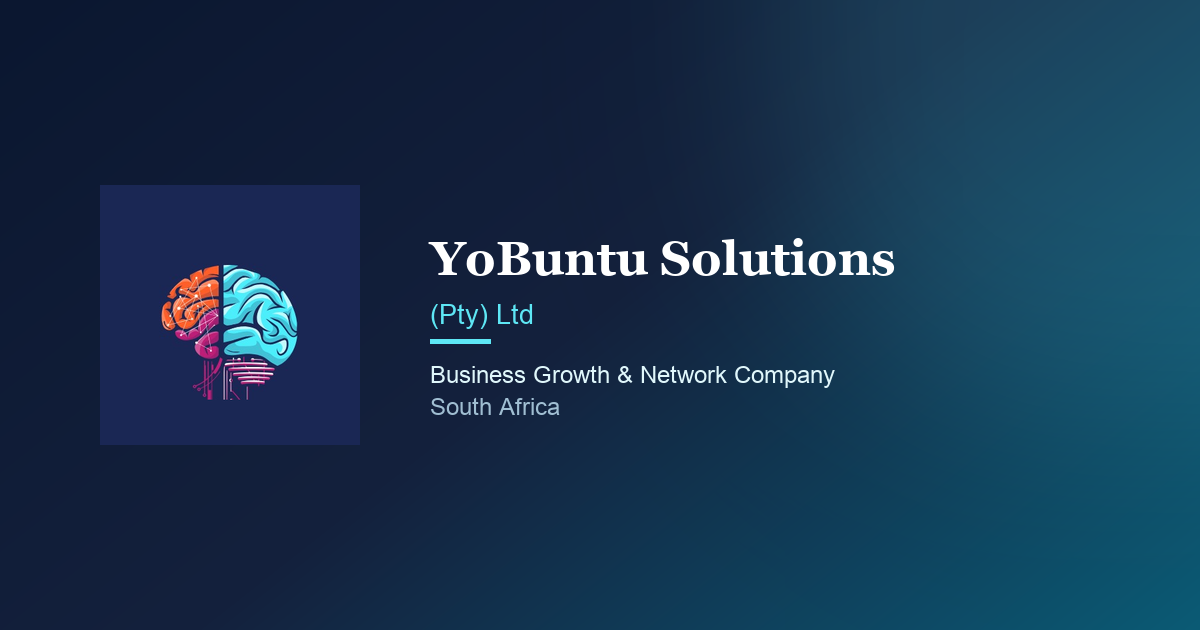
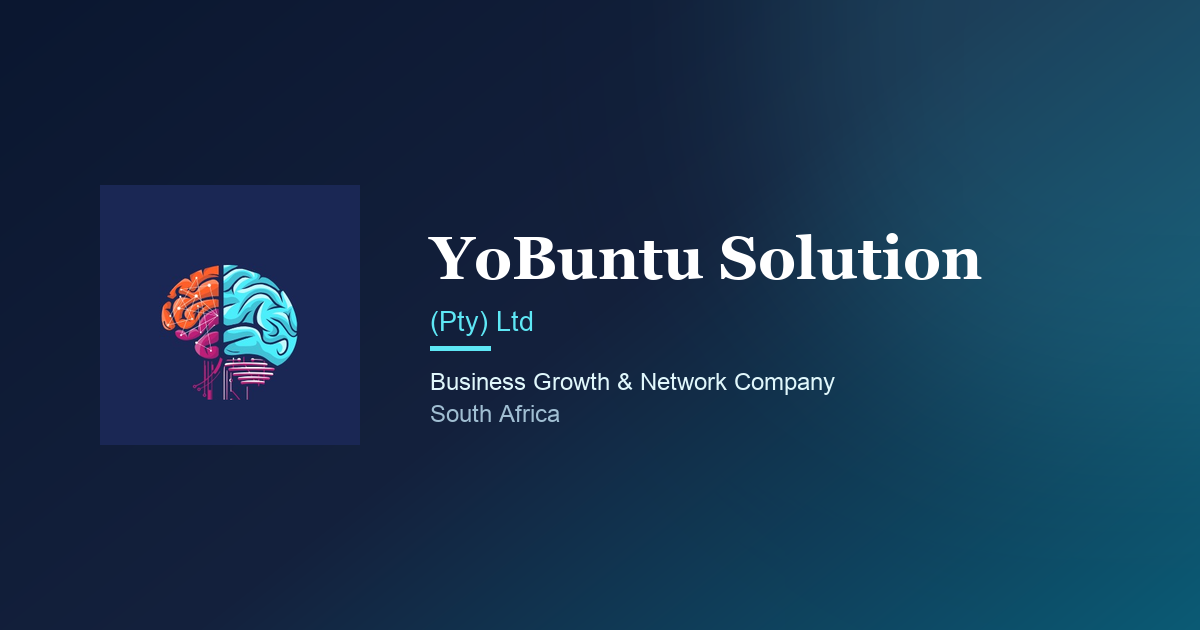
Correct brand name to singular "YoBuntu Solution" throughout
The company's actual name is "YoBuntu Solution (Pty) Ltd" (singular),
matching the wordmark on the real logo. Update every occurrence across
the navbar, footer, page copy, meta tags, manifest.json, structured
data, and regenerate the OG share image to match.

Changed region(s): [[0.3392, 0.3619, 0.8325, 0.4524], [0.3392, 0.4825, 0.7092, 0.6937]]

diff --git a/public/index.html b/public/index.html
@@ -6,10 +6,10 @@
     <meta name="theme-color" content="#1A2754" />
 
     <!-- Primary meta (overridden per page by react-helmet-async) -->
-    <title>YoBuntu Solutions | Business Growth & Network Company | South Africa</title>
-    <meta name="description" content="YoBuntu Solutions is a South African business growth and network company. We help businesses grow by connecting them to the customers, partners, investors, technology, and opportunities they need to succeed. AI is one of the tools we use." />
-    <meta name="keywords" content="business network South Africa, business growth partner, business connections, strategic partnerships, investor connections, government opportunities, AI for business South Africa, YoBuntu Solutions" />
-    <meta name="author" content="YoBuntu Solutions (Pty) Ltd" />
+    <title>YoBuntu Solution | Business Growth & Network Company | South Africa</title>
+    <meta name="description" content="YoBuntu Solution is a South African business growth and network company. We help businesses grow by connecting them to the customers, partners, investors, technology, and opportunities they need to succeed. AI is one of the tools we use." />
+    <meta name="keywords" content="business network South Africa, business growth partner, business connections, strategic partnerships, investor connections, government opportunities, AI for business South Africa, YoBuntu Solution" />
+    <meta name="author" content="YoBuntu Solution (Pty) Ltd" />
     <meta name="robots" content="index, follow" />
     <meta name="google-site-verification" content="bCTEjn-3VqtgzPcwOml5I1QKUF3a_S5RUv8E-y2NGUo" />
 
@@ -19,15 +19,15 @@
     <!-- Open Graph -->
     <meta property="og:type" content="website" />
     <meta property="og:url" content="https://yobuntusolutions.com/" />
-    <meta property="og:title" content="YoBuntu Solutions | Business Growth & Network Company | South Africa" />
+    <meta property="og:title" content="YoBuntu Solution | Business Growth & Network Company | South Africa" />
     <meta property="og:description" content="A business growth and network company. We help businesses grow by connecting them to customers, partners, investors, and opportunities — with AI as one of the tools." />
     <meta property="og:image" content="https://yobuntusolutions.com/og-image.png" />
-    <meta property="og:site_name" content="YoBuntu Solutions" />
+    <meta property="og:site_name" content="YoBuntu Solution" />
     <meta property="og:locale" content="en_ZA" />
 
     <!-- Twitter / X Card -->
     <meta name="twitter:card" content="summary_large_image" />
-    <meta name="twitter:title" content="YoBuntu Solutions | Business Growth & Network Company" />
+    <meta name="twitter:title" content="YoBuntu Solution | Business Growth & Network Company" />
     <meta name="twitter:description" content="A business growth and network company based in Nkomazi, Mpumalanga, South Africa." />
     <meta name="twitter:image" content="https://yobuntusolutions.com/og-image.png" />
 
@@ -40,7 +40,7 @@
     <link href="https://fonts.googleapis.com/css2?family=Playfair+Display:ital,wght@0,400;0,700;1,400;1,700&family=DM+Sans:wght@300;400;500&display=swap" rel="stylesheet">
   </head>
   <body>
-    <noscript>YoBuntu Solutions — A business growth and network company. We help businesses grow by connecting them to the customers, partners, investors, technology, and opportunities they need to succeed. Based in Nkomazi, Mpumalanga, South Africa.</noscript>
+    <noscript>YoBuntu Solution — A business growth and network company. We help businesses grow by connecting them to the customers, partners, investors, technology, and opportunities they need to succeed. Based in Nkomazi, Mpumalanga, South Africa.</noscript>
     <div id="root"></div>
   </body>
 </html>

diff --git a/src/pages/About.jsx b/src/pages/About.jsx
@@ -50,7 +50,7 @@ export default function About() {
     <div>
       <SEO
         title="About Us — A Business Growth & Network Company"
-        description="YoBuntu Solutions is a South African business growth and network company. We believe most businesses fail from a lack of connections, not bad products — so we become a long-term growth partner and build a network around every business."
+        description="YoBuntu Solution is a South African business growth and network company. We believe most businesses fail from a lack of connections, not bad products — so we become a long-term growth partner and build a network around every business."
         path="/about"
       />
 
@@ -64,7 +64,7 @@ export default function About() {
                 A business growth &amp; network company
               </h1>
               <p style={{ color: 'var(--text-muted)', fontWeight: 300, maxWidth: 600, lineHeight: 1.8 }}>
-                YoBuntu Solutions helps businesses grow by connecting them to the people, technology, and opportunities they need to succeed. AI is one of the tools we use — but the real business is the network, and the long-term partnership behind it.
+                YoBuntu Solution helps businesses grow by connecting them to the people, technology, and opportunities they need to succeed. AI is one of the tools we use — but the real business is the network, and the long-term partnership behind it.
               </p>
             </div>
             <div className="split-media">
@@ -190,7 +190,7 @@ export default function About() {
           <div className="card" style={{ background: 'var(--bg)', padding: '2rem', display: 'flex', gap: '1.25rem', alignItems: 'flex-start' }}>
             <Quote size={32} color="var(--primary)" style={{ flexShrink: 0 }} aria-hidden="true" />
             <p style={{ fontFamily: "'Playfair Display', serif", fontSize: '1.2rem', lineHeight: 1.6, fontStyle: 'italic' }}>
-              &ldquo;YoBuntu Solutions is building the infrastructure that helps businesses grow by connecting them to the people, technology, and opportunities they need to succeed. Every business we add strengthens the network for every other business, creating long-term value that scales across industries and countries.&rdquo;
+              &ldquo;YoBuntu Solution is building the infrastructure that helps businesses grow by connecting them to the people, technology, and opportunities they need to succeed. Every business we add strengthens the network for every other business, creating long-term value that scales across industries and countries.&rdquo;
             </p>
           </div>
           <p style={{ color: 'var(--text-muted)', lineHeight: 1.8, marginTop: '1.5rem' }}>

diff --git a/src/pages/Home.jsx b/src/pages/Home.jsx
@@ -107,7 +107,7 @@ export default function Home() {
     <div>
       <SEO
         path="/"
-        description="YoBuntu Solutions is a South African business growth and network company. We help businesses grow by connecting them to the customers, partners, investors, technology, and opportunities they need to succeed."
+        description="YoBuntu Solution is a South African business growth and network company. We help businesses grow by connecting them to the customers, partners, investors, technology, and opportunities they need to succeed."
       />
 
       {/* Hero */}
@@ -142,7 +142,7 @@ export default function Home() {
             <em style={{ color: '#5EE7F5', fontStyle: 'italic' }}>connections</em>, resources, and support
           </h1>
           <p style={{ color: 'rgba(255,255,255,0.9)', fontWeight: 300, fontSize: '1.1rem', maxWidth: 620, marginBottom: '2.25rem', lineHeight: 1.7 }}>
-            Most businesses don't fail because they have bad products — they fail because they lack the right connections, resources, and support system. YoBuntu Solutions exists to solve that. We become your long-term growth partner and build a network around your business.
+            Most businesses don't fail because they have bad products — they fail because they lack the right connections, resources, and support system. YoBuntu Solution exists to solve that. We become your long-term growth partner and build a network around your business.
           </p>
           <div style={{ display: 'flex', gap: '1rem', flexWrap: 'wrap' }}>
             <Link to="/contact" className="btn-primary" style={{ background: '#fff', color: 'var(--deep)', borderColor: '#fff' }}>
@@ -212,7 +212,7 @@ export default function Home() {
                 Traditional consultants give recommendations and leave. Directories just list businesses. Networking events happen once and end. None of them stay to make sure a business actually grows.
               </p>
               <p style={{ color: 'var(--text-muted)', lineHeight: 1.8 }}>
-                YoBuntu Solutions is different. We partner with each business and become a long-term growth partner — actively building a network of customers, suppliers, partners, and opportunities around it, then using AI to make it more efficient along the way.
+                YoBuntu Solution is different. We partner with each business and become a long-term growth partner — actively building a network of customers, suppliers, partners, and opportunities around it, then using AI to make it more efficient along the way.
               </p>
             </div>
             <div className="split-media">

diff --git a/src/pages/Pilot.jsx b/src/pages/Pilot.jsx
@@ -49,7 +49,7 @@ export default function Pilot() {
     <div>
       <SEO
         title="Pilot — Divine Projects | Proving the Growth Model"
-        description="Divine Projects is YoBuntu Solutions' first pilot: a catering, events, and rides business based in Sidlamafa, Mpumalanga. We are building a full support ecosystem around it and documenting every result to prove the model works."
+        description="Divine Projects is YoBuntu Solution's first pilot: a catering, events, and rides business based in Sidlamafa, Mpumalanga. We are building a full support ecosystem around it and documenting every result to prove the model works."
         path="/pilot"
       />
 
@@ -122,7 +122,7 @@ export default function Pilot() {
                 <MapPin size={20} color="var(--coral)" aria-hidden="true" />
               </div>
               <h3 style={{ fontSize: '1.02rem' }}>Based in Mpumalanga</h3>
-              <p style={{ color: 'var(--text-muted)', fontSize: '0.9rem', lineHeight: 1.6 }}>Sidlamafa, Nkomazi — the same region YoBuntu Solutions calls home.</p>
+              <p style={{ color: 'var(--text-muted)', fontSize: '0.9rem', lineHeight: 1.6 }}>Sidlamafa, Nkomazi — the same region YoBuntu Solution calls home.</p>
             </div>
           </div>
         </div>

diff --git a/src/components/Footer.jsx b/src/components/Footer.jsx
@@ -16,7 +16,7 @@ export default function Footer() {
               <img src={logoMark} alt="" aria-hidden="true" />
             </div>
           </div>
-          <p className="seal-plate">YoBuntu Solutions (Pty) Ltd</p>
+          <p className="seal-plate">YoBuntu Solution (Pty) Ltd</p>
           <p className="seal-sub">Registered in South Africa · Nkomazi, Mpumalanga</p>
         </div>
       </div>
@@ -59,7 +59,7 @@ export default function Footer() {
       </div>
 
       <div style={{ maxWidth: 1100, margin: '0 auto', padding: '1rem 1.5rem', borderTop: '1px solid var(--border)', color: 'var(--text-muted)', fontSize: '0.83rem' }}>
-        © 2025 YoBuntu Solutions (Pty) Ltd · Nkomazi, Mpumalanga · A business growth &amp; network company
+        © 2025 YoBuntu Solution (Pty) Ltd · Nkomazi, Mpumalanga · A business growth &amp; network company
       </div>
 
       <style>{`

diff --git a/src/pages/Network.jsx b/src/pages/Network.jsx
@@ -56,7 +56,7 @@ export default function Network() {
     <div>
       <SEO
         title="The Network — Connections, Partnerships & the Network Effect"
-        description="YoBuntu Solutions is building the largest trusted business network. We connect businesses to customers, suppliers, partners, investors, NGOs, and government opportunities — and every business we add strengthens the network for everyone else."
+        description="YoBuntu Solution is building the largest trusted business network. We connect businesses to customers, suppliers, partners, investors, NGOs, and government opportunities — and every business we add strengthens the network for everyone else."
         path="/network"
       />
 

diff --git a/src/pages/Contact.jsx b/src/pages/Contact.jsx
@@ -33,7 +33,7 @@ export default function Contact() {
     <div>
       <SEO
         title="Contact Us — Book a Free Consultation"
-        description="Book a free 30-minute consultation with YoBuntu Solutions. We work with organisations across South Africa on AI consulting, business process optimization, digital transformation, and growth strategy."
+        description="Book a free 30-minute consultation with YoBuntu Solution. We work with organisations across South Africa on AI consulting, business process optimization, digital transformation, and growth strategy."
         path="/contact"
       />
       <section style={{ background: 'var(--bg-secondary)', borderBottom: '1px solid var(--border)' }}>

diff --git a/src/pages/Services.jsx b/src/pages/Services.jsx
@@ -32,7 +32,7 @@ export default function Services() {
     <div>
       <SEO
         title="What We Do — Connections, Growth Partnership & AI Efficiency"
-        description="YoBuntu Solutions helps businesses grow: long-term growth partnership, business introductions, access to investors and government opportunities, strategic partnerships, AI-powered efficiency, and measured results."
+        description="YoBuntu Solution helps businesses grow: long-term growth partnership, business introductions, access to investors and government opportunities, strategic partnerships, AI-powered efficiency, and measured results."
         path="/services"
       />
 

diff --git a/src/pages/Pricing.jsx b/src/pages/Pricing.jsx
@@ -82,7 +82,7 @@ export default function Pricing() {
     <div>
       <SEO
         title="Pricing — Free Consultation to Enterprise Engagements"
-        description="Transparent pricing from YoBuntu Solutions. Start with a free 30-minute strategy consultation and scale to project engagements, monthly retainers, or large-scale enterprise transformation."
+        description="Transparent pricing from YoBuntu Solution. Start with a free 30-minute strategy consultation and scale to project engagements, monthly retainers, or large-scale enterprise transformation."
         path="/pricing"
       />
       {/* Hero */}

diff --git a/src/components/Navbar.jsx b/src/components/Navbar.jsx
@@ -109,8 +109,8 @@ export default function Navbar() {
     <nav style={navStyle}>
       <div style={innerStyle}>
         <Link to="/" style={logoStyle}>
-          <img src={logoMark} alt="YoBuntu Solutions (Pty) Ltd" style={logoMarkStyle} />
-          <span style={logoTextStyle}>YoBuntu Solutions (Pty) Ltd</span>
+          <img src={logoMark} alt="YoBuntu Solution (Pty) Ltd" style={logoMarkStyle} />
+          <span style={logoTextStyle}>YoBuntu Solution (Pty) Ltd</span>
         </Link>
 
         <div style={desktopLinksStyle} className="desktop-nav">

diff --git a/src/App.js b/src/App.js
@@ -14,7 +14,7 @@ import Contact from './pages/Contact';
 const STRUCTURED_DATA = {
   '@context': 'https://schema.org',
   '@type': 'ProfessionalService',
-  name: 'YoBuntu Solutions (Pty) Ltd',
+  name: 'YoBuntu Solution (Pty) Ltd',
   description: 'A business growth and network company helping businesses grow by connecting them to the customers, partners, investors, technology, and opportunities they need to succeed.',
   url: 'https://yobuntusolutions.com',
   logo: 'https://yobuntusolutions.com/logo192.png',

diff --git a/src/components/SEO.jsx b/src/components/SEO.jsx
@@ -1,6 +1,6 @@
 import { Helmet } from 'react-helmet-async';
 
-const SITE_NAME = 'YoBuntu Solutions';
+const SITE_NAME = 'YoBuntu Solution';
 const SITE_URL = 'https://yobuntusolutions.com';
 const DEFAULT_IMAGE = `${SITE_URL}/og-image.png`;
 
